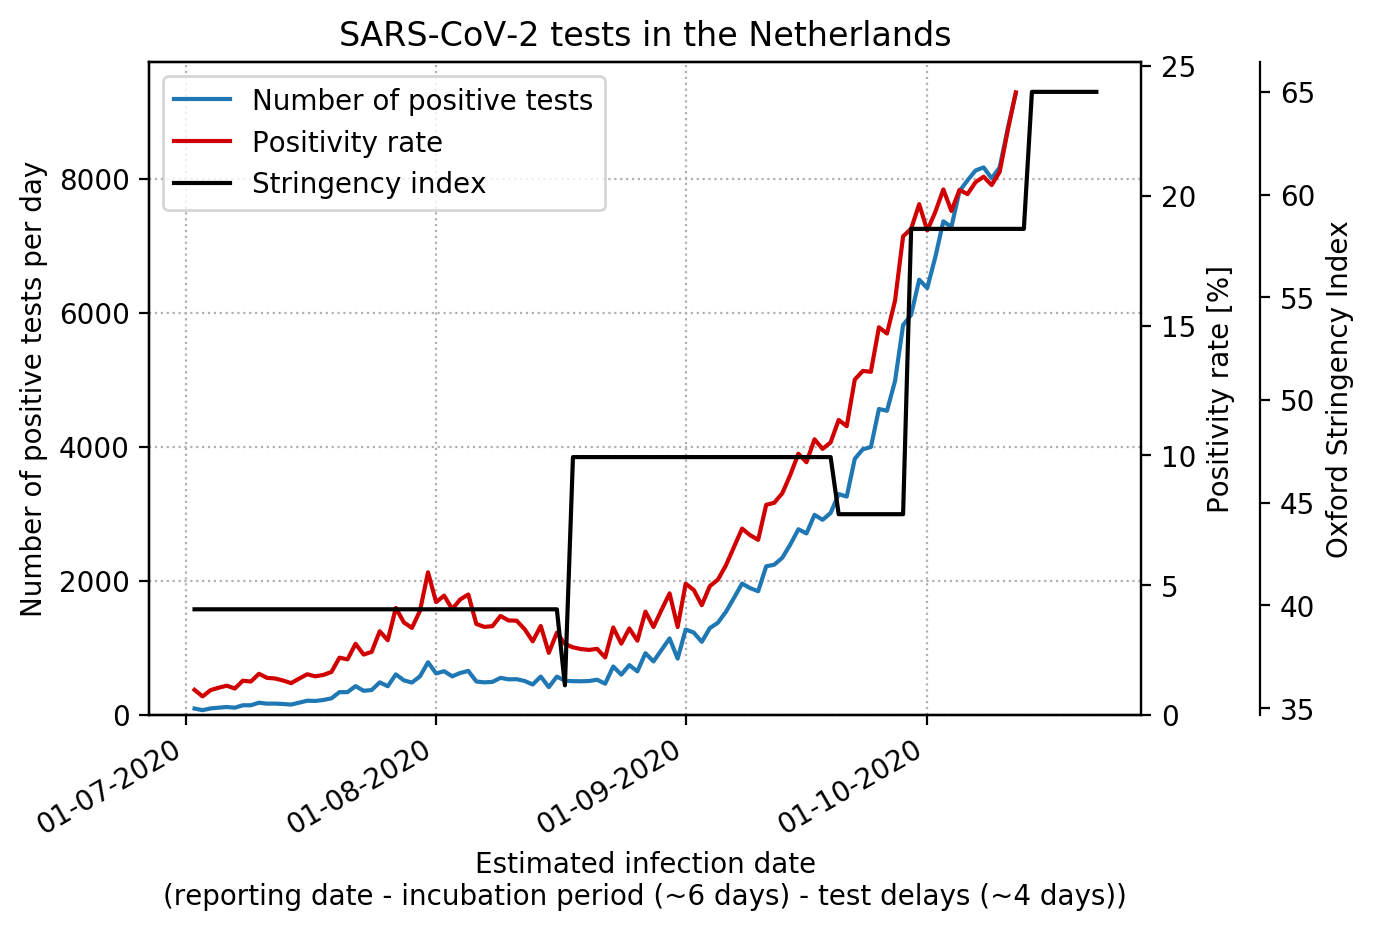
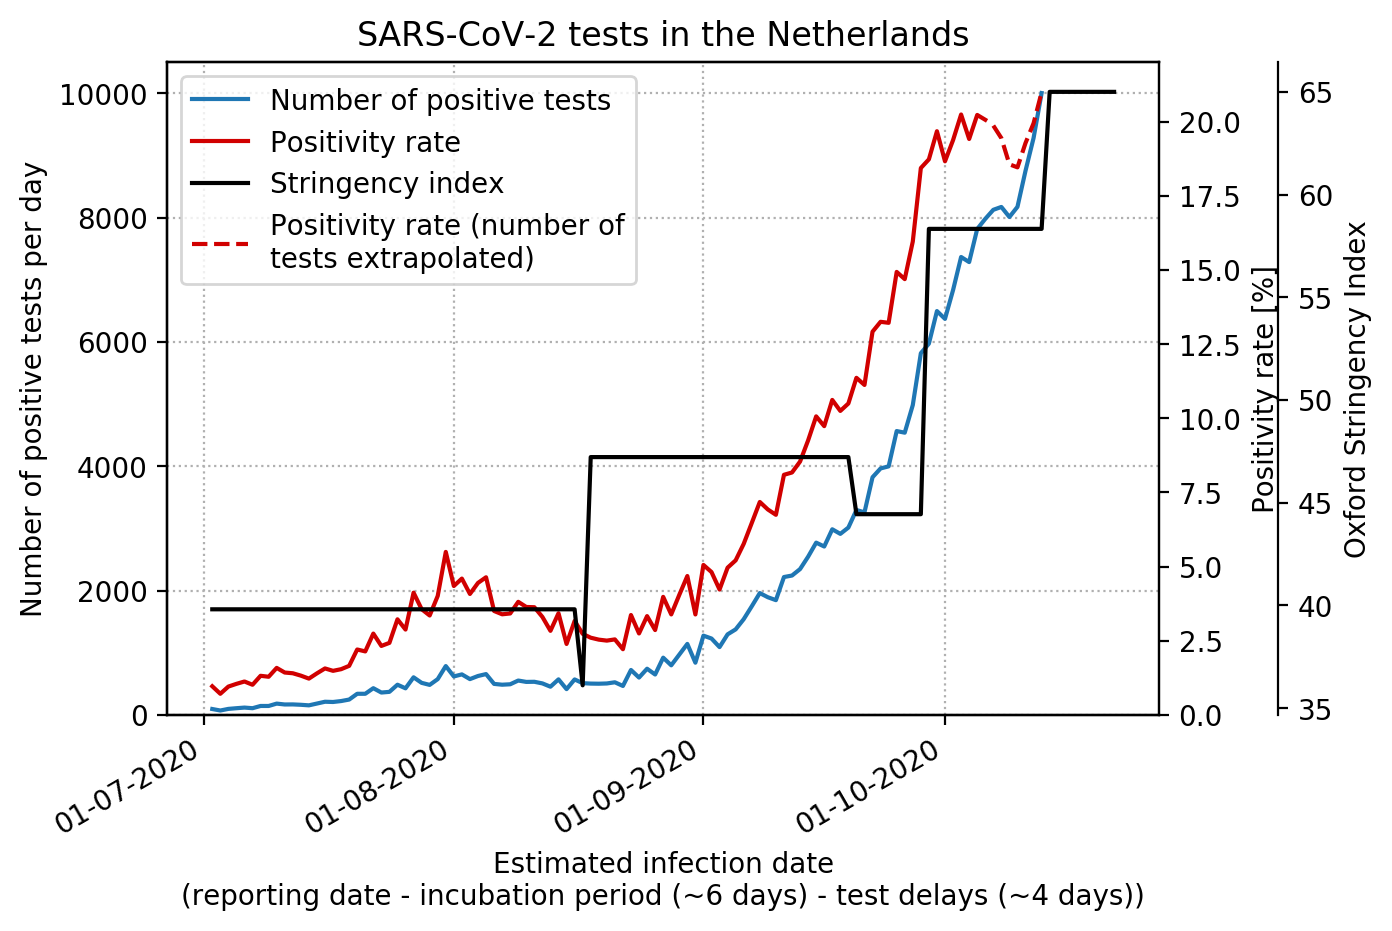
Added an indicator for which part of the positivity rate graph uses extrapolated data

diff --git a/model_coronavirus_supression.py b/model_coronavirus_supression.py
@@ -288,6 +288,9 @@ def load_number_of_tests(enddate = None):
 	#then interpolate/extrapolate
 	df_n_tests['Number_of_tests'] = df_n_tests['Number_of_tests'].interpolate(method = 'linear')
 
+	#indicate which part was extrapolated
+	df_n_tests['Extrapolated'] = 0
+
 	#now if the enddate is given, we also want to extrapolate
 	if enddate != None:
 		#select on which section we want to extrapolate (up to 3 weeks back)
@@ -304,7 +307,7 @@ def load_number_of_tests(enddate = None):
 
 		## now make the proper array
 		#set the enddate
-		df_n_tests.loc[enddate] = [np.nan, np.nan]
+		df_n_tests.loc[enddate] = [np.nan, np.nan, 1]
 		#add dates in between
 		df_n_tests = df_n_tests.resample('1d').mean()
 
@@ -315,9 +318,13 @@ def load_number_of_tests(enddate = None):
 		X_pred = df_extrap_pred.reset_index().drop('Date', 1).index.astype(float).values[selectindex]
 		#get predictions
 		df_temp = pd.DataFrame(data = clf.predict(X_pred[:,None]), index = df_extrap_pred.loc[df_extrap_pred.index > start_extrapolation_pred].index, columns = ['Number_of_tests'])
+		#indicate that these values are extrapolated
+		df_temp['Extrapolated'] = 1
 
 		#now update the interpolated array
 		df_n_tests.update(df_temp)
+
+		df_n_tests = df_n_tests.astype({'Extrapolated': 'bool'})
 
 	return df_n_tests
 
@@ -634,7 +641,7 @@ def plot_daily_results():
 	df_daily_covid.index = df_daily_covid.index - pd.Timedelta(f'{result_delay} day')
 
 	#merge datasets
-	df_daily_covid = df_daily_covid.merge(df_n_tests[['Number_of_tests']], right_index = True, left_index = True)
+	df_daily_covid = df_daily_covid.merge(df_n_tests[['Number_of_tests', 'Extrapolated']], right_index = True, left_index = True)
 
 	print(df_n_tests.tail())
 
@@ -652,6 +659,7 @@ def plot_daily_results():
 
 	print(df_daily_covid['Positivity_ratio'].tail())
 
+	### make the plot
 	fig, ax1 = plt.subplots()
 
 	ax2 = ax1.twinx()
@@ -659,19 +667,19 @@ def plot_daily_results():
 	ax3 = ax1.twinx()
 	ax3.spines['right'].set_position(('axes', 1.12))
 
-
 	#plot number of positive tests
-	lns1 = ax1.plot(df_daily_covid.index, df_daily_covid['Total_reported'], label = 'Number of positive tests')
-	ax1.plot(df_daily_covid.index, df_daily_covid['Number_of_tests'])
+	lns1 = ax1.plot(df_daily_covid.index, df_daily_covid['Total_reported'],	label = 'Number of positive tests')
+	# ax1.plot(df_daily_covid.index, df_daily_covid['Number_of_tests'])
 	#plot test positivity rate
-	lns2 = ax2.plot(df_daily_covid.index, df_daily_covid['Positivity_ratio']*100, label = 'Positivity rate', color = '#D10000')
+	lns2 = ax2.plot(df_daily_covid[~df_daily_covid['Extrapolated']].index, df_daily_covid[~df_daily_covid['Extrapolated']]['Positivity_ratio']*100, label = 'Positivity rate', color = '#D10000')
+	lns4 = ax2.plot(df_daily_covid[df_daily_covid['Extrapolated']].index, df_daily_covid[df_daily_covid['Extrapolated']]['Positivity_ratio']*100, label = 'Positivity rate (number of\ntests extrapolated)', color = '#D10000', linestyle = '--')
 
 	#also plot government response
 	lns3 = ax3.plot(df_response.index, df_response['StringencyIndex'], label = 'Stringency index', color = 'black')
 
 	ax1.grid(linestyle = ':')
 
-	lns = lns1 + lns2 + lns3
+	lns = lns1 + lns2 + lns3 + lns4
 	labs = [l.get_label() for l in lns]
 	ax1.legend(lns, labs, loc='best')
 
